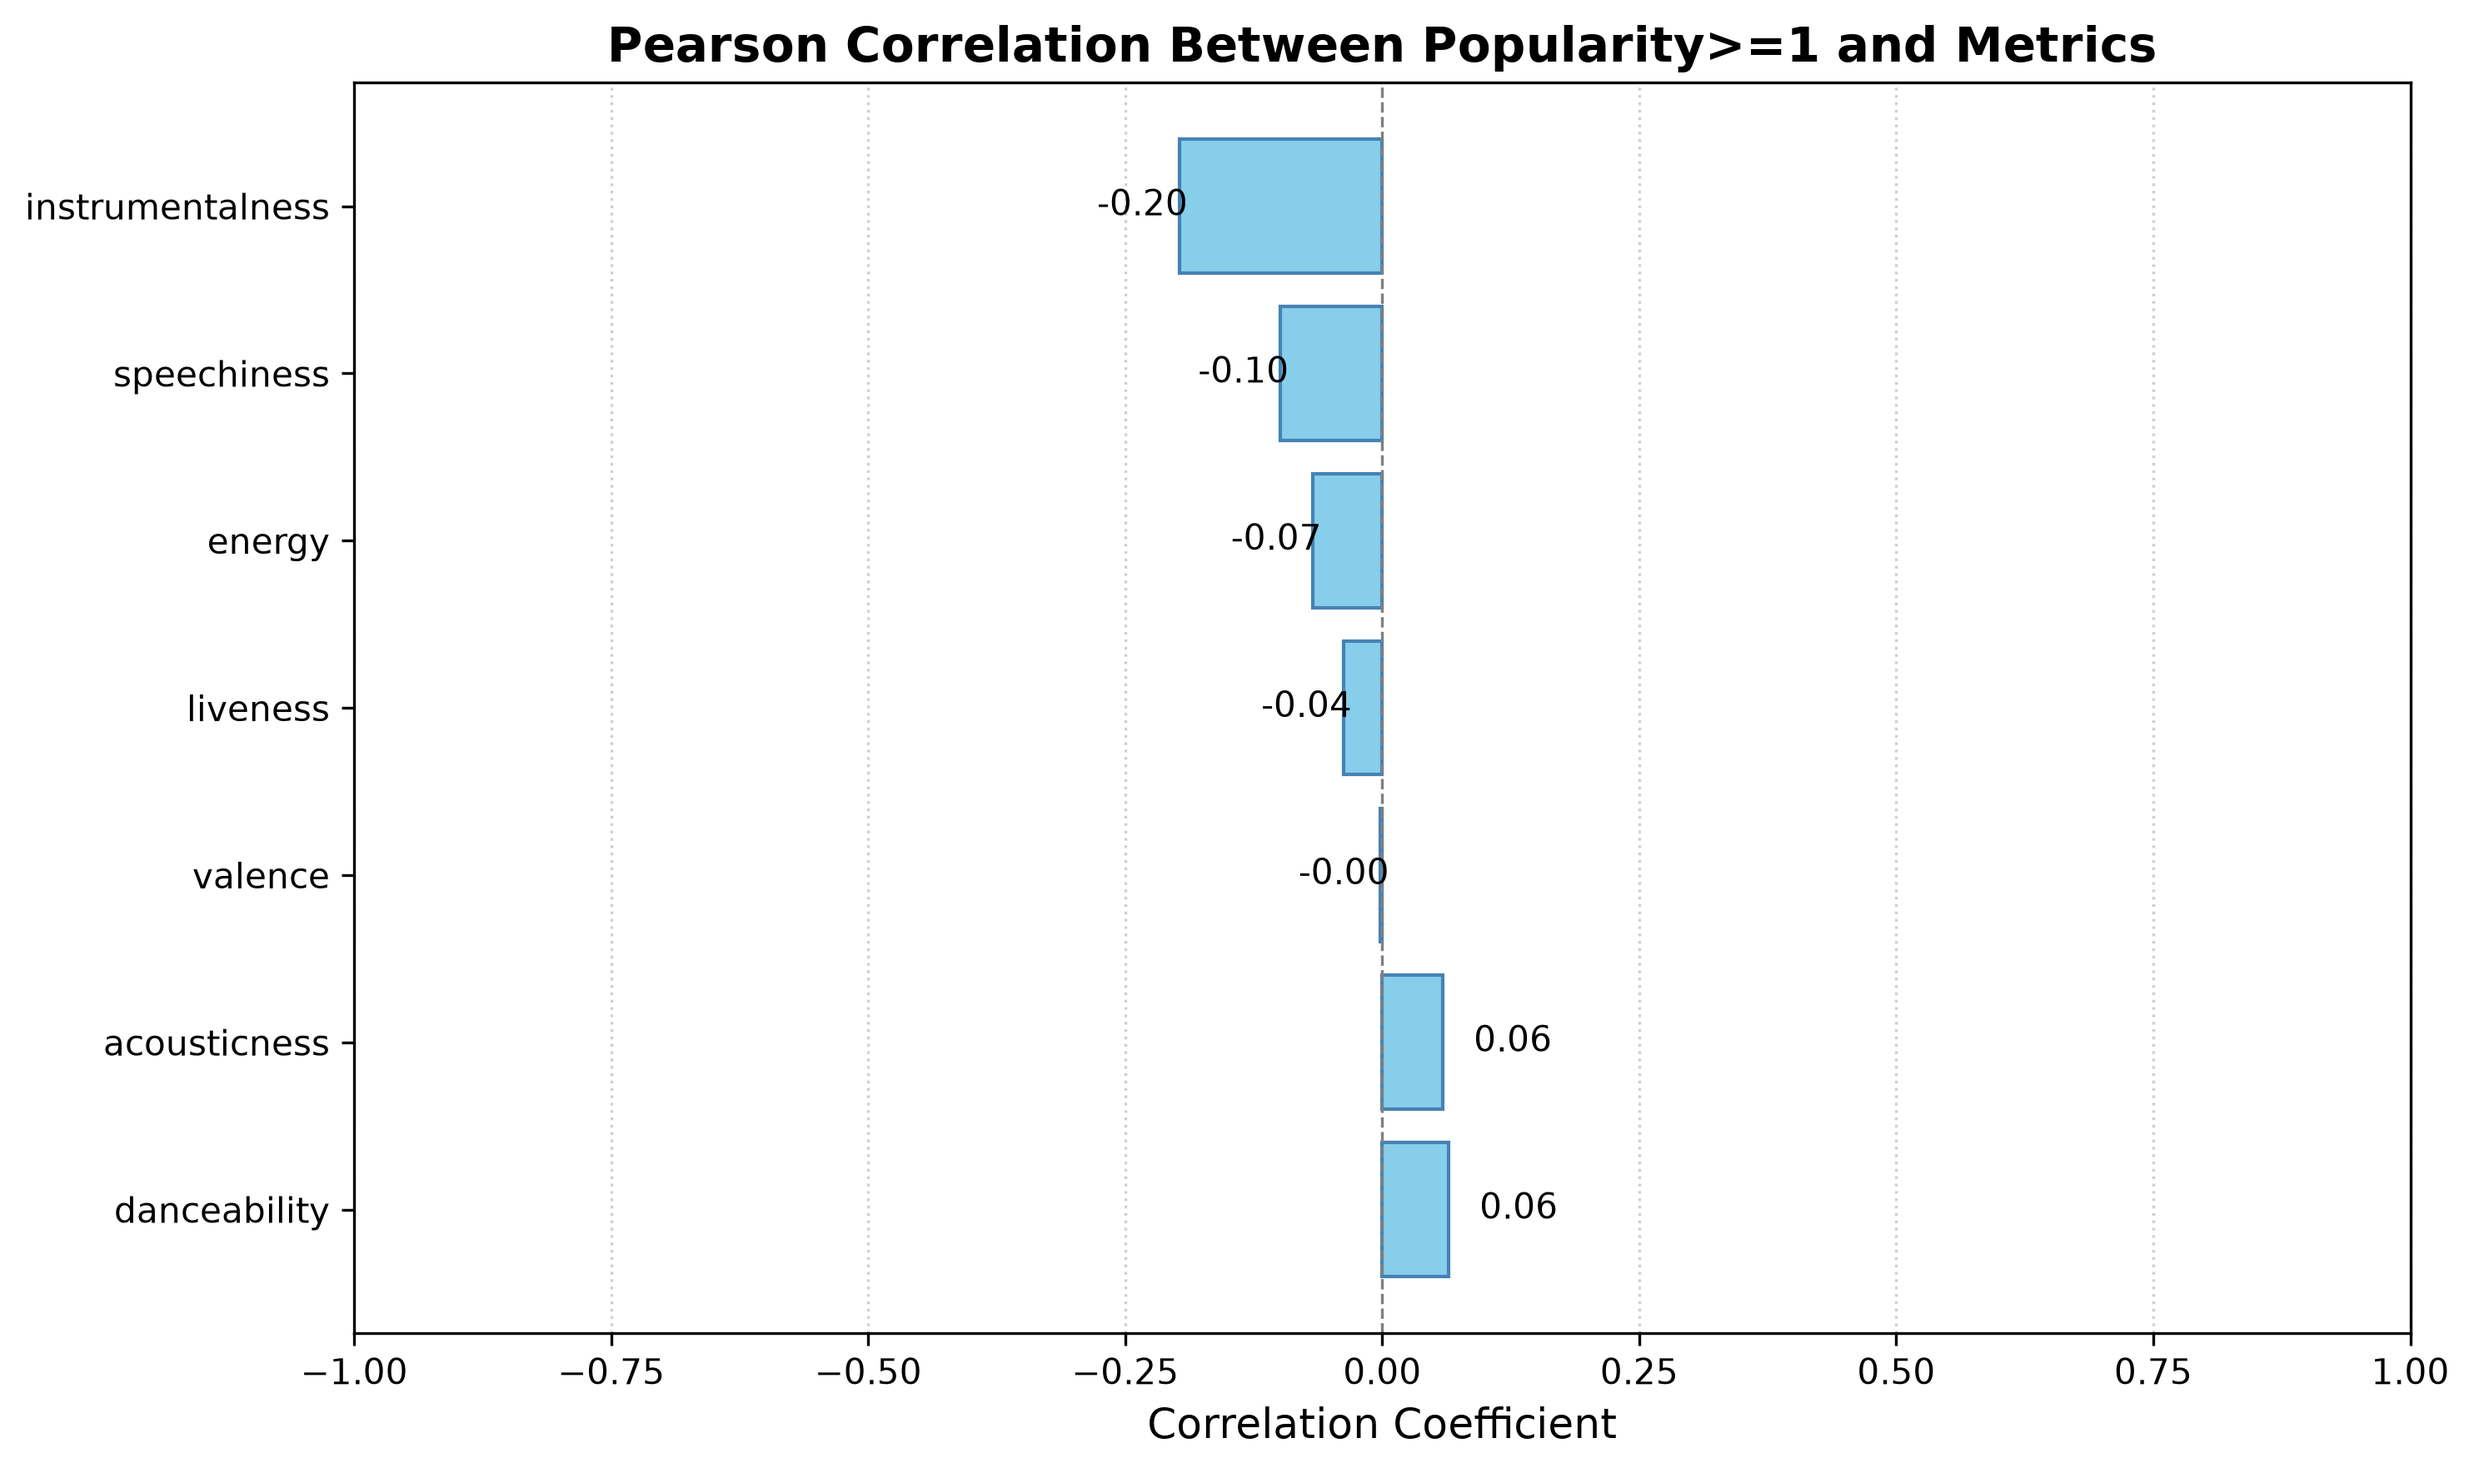
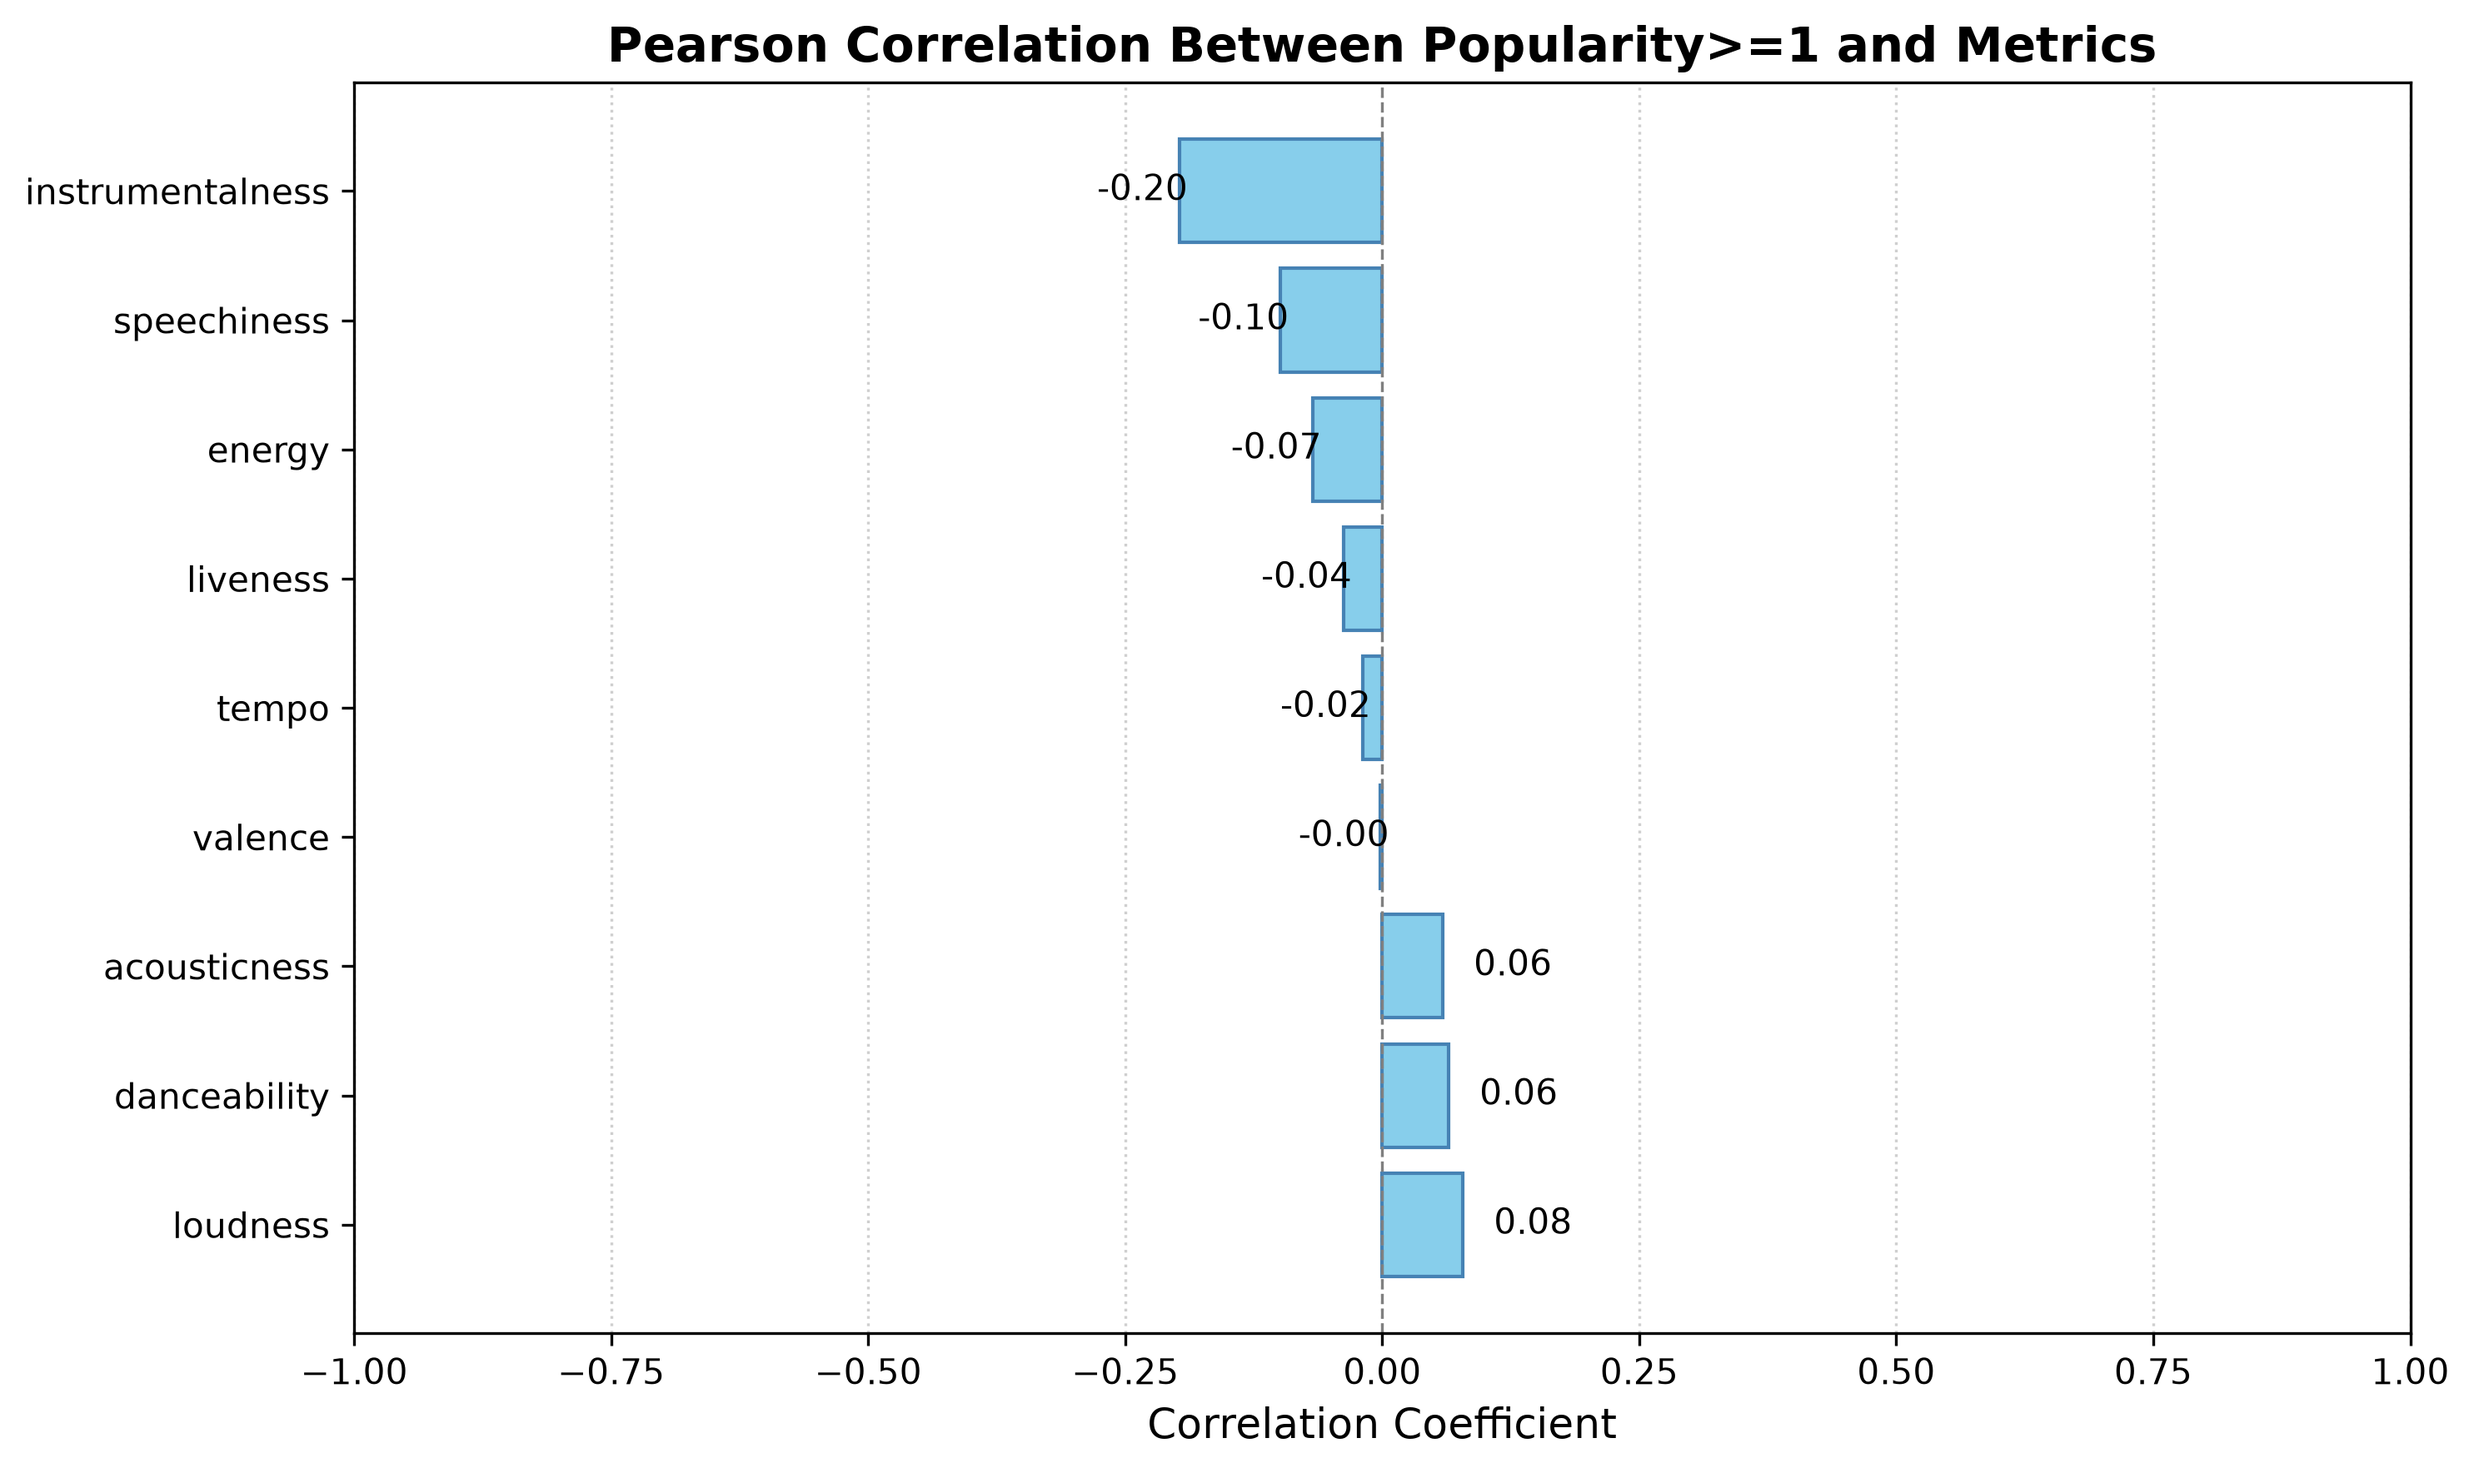
Added tempo and loudness to correlation metrics.

diff --git a/src/spotify_data_analytics/settings.py b/src/spotify_data_analytics/settings.py
@@ -25,6 +25,8 @@ class AnalyzeCorrelationsSettings:
         default_factory=lambda: [
             "danceability",
             "energy",
+            "tempo",
+            "loudness",
             "speechiness",
             "acousticness",
             "instrumentalness",
@@ -46,6 +48,8 @@ class PlotCorrelationsSettings:
         default_factory=lambda: [
             "danceability",
             "energy",
+            "tempo",
+            "loudness",
             "speechiness",
             "acousticness",
             "instrumentalness",
